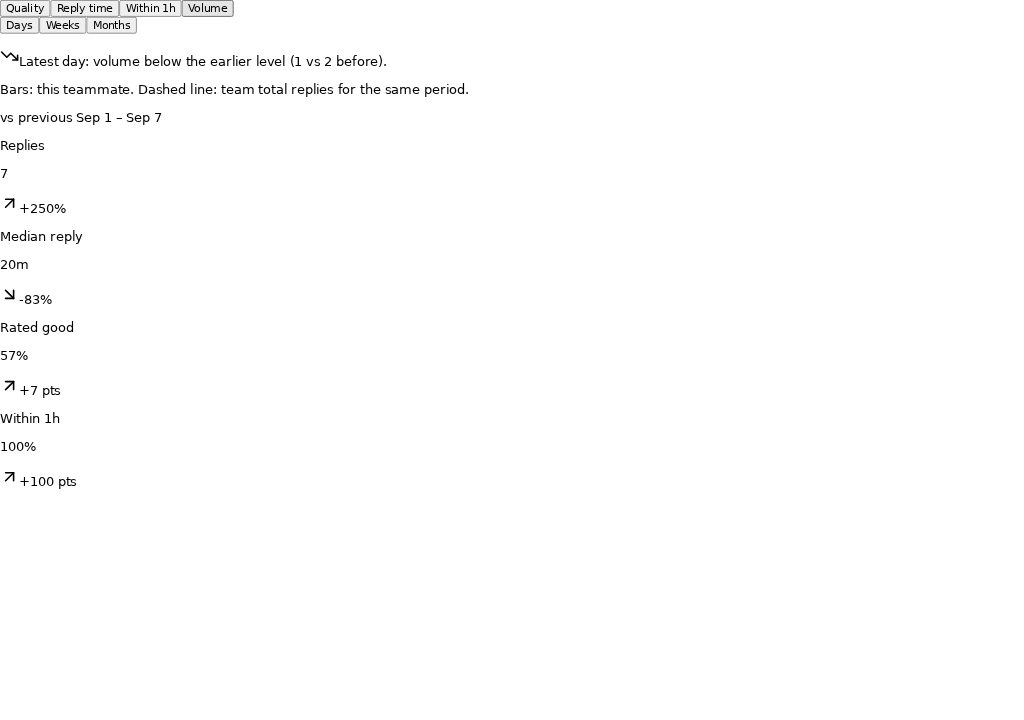
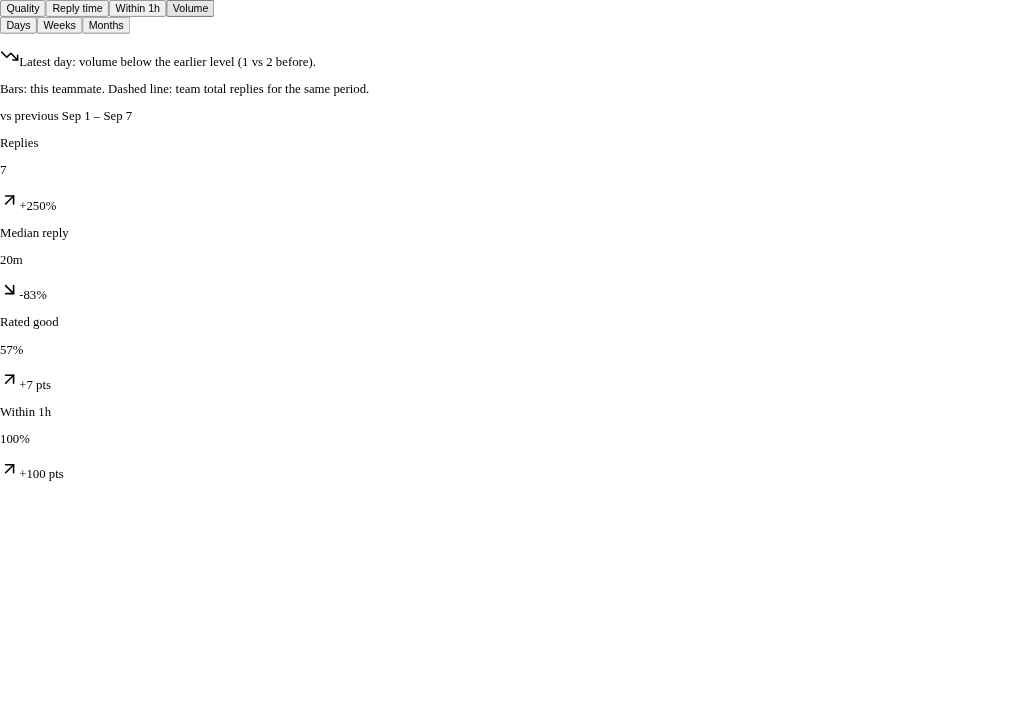
Исправлены проблемы с загрузкой моделей, ошибками сервера и отображением аналитики.

Changed region(s): [[0.0, 0.0, 0.375, 0.0917], [0.0, 0.275, 0.0938, 0.6722], [0.0, 0.1222, 0.4688, 0.2139]]

diff --git a/web/src/test/desk-teammate-trend.browser.test.tsx b/web/src/test/desk-teammate-trend.browser.test.tsx
@@ -1,6 +1,9 @@
 import { page } from "vitest/browser";
 import { render } from "vitest-browser-react";
 
+// Real stylesheet: the chart boxes get their height from Tailwind classes, and
+// recharts draws nothing into a zero-height container.
+import "@/index.css";
 import { DeskTrendSection } from "@/components/gera/DeskTrendSection";
 import { TeammateTrend } from "@/components/gera/TeammateTrend";
 import type { DeskTimelinePoint } from "@/lib/projects";
@@ -61,7 +64,16 @@ test("teammate dynamics: verdict, metric tabs and previous-period comparison fol
   await expect.element(page.getByTestId(`${TID.screenDeskTeammateTrend}-verdict`)).toHaveTextContent(
     "Latest day: volume below the earlier level (1 vs 2 before).",
   );
+  // Regression: the stacked Volume bars must actually render (recharts 2 + react-is 18
+  // silently dropped Bars wrapped in a React 19 fragment — the chart came out empty).
+  await expect.poll(() => drawnBars(TID.screenDeskTeammateTrend), { timeout: 5000 }).toBeGreaterThan(0);
 });
+
+/** Count of bar rectangles recharts drew inside the given test-id block. */
+function drawnBars(testId: string): number {
+  const root = document.querySelector(`[data-testid="${testId}"]`);
+  return root ? root.querySelectorAll(".recharts-bar-rectangle path").length : 0;
+}
 
 test("team trend ranks who moved most for admins and hides the ranking for a single visible teammate", async () => {
   const screen = await render(
@@ -75,6 +87,9 @@ test("team trend ranks who moved most for admins and hides the ranking for a sin
       ]}
     />,
   );
+
+  // Volume is the default team metric; its stacked bars must be drawn, not an empty grid.
+  await expect.poll(() => drawnBars(TID.screenDeskPerformanceTrend), { timeout: 5000 }).toBeGreaterThan(0);
 
   const shifts = page.getByTestId(TID.screenDeskPerformanceShifts);
   await expect.element(shifts).toBeVisible();

diff --git a/web/src/components/gera/DeskTrendSection.tsx b/web/src/components/gera/DeskTrendSection.tsx
@@ -282,12 +282,11 @@ export const DeskTrendSection = memo(function DeskTrendSection({
               }
             />
             <Tooltip cursor={{ fill: "hsl(var(--ember) / 0.08)" }} content={<TrendTooltip metric={metric} />} />
+            {/* No fragment here: recharts (react-is 18) cannot see Bars nested inside a React 19 fragment. */}
+            {metric === "replies" ? <Bar dataKey="good" stackId="v" fill={GOOD} isAnimationActive={false} /> : null}
+            {metric === "replies" ? <Bar dataKey="bad" stackId="v" fill={BAD} isAnimationActive={false} /> : null}
             {metric === "replies" ? (
-              <>
-                <Bar dataKey="good" stackId="v" fill={GOOD} radius={[0, 0, 0, 0]} isAnimationActive={false} />
-                <Bar dataKey="bad" stackId="v" fill={BAD} isAnimationActive={false} />
-                <Bar dataKey="ungraded" stackId="v" fill={MUTED} radius={[4, 4, 0, 0]} isAnimationActive={false} />
-              </>
+              <Bar dataKey="ungraded" stackId="v" fill={MUTED} radius={[4, 4, 0, 0]} isAnimationActive={false} />
             ) : metric === "response" ? (
               <Bar dataKey="medianMinutes" radius={[4, 4, 0, 0]} isAnimationActive={false}>
                 {chartData.map((bucket) => (

diff --git a/web/src/components/gera/TeammateTrend.tsx b/web/src/components/gera/TeammateTrend.tsx
@@ -259,12 +259,11 @@ export const TeammateTrend = memo(function TeammateTrend({
               tickFormatter={(value: number) => formatMetric(value, metric)}
             />
             <Tooltip cursor={{ fill: "hsl(var(--ember) / 0.08)" }} content={<TeammateTooltip metric={metric} />} />
+            {/* No fragment here: recharts (react-is 18) cannot see Bars nested inside a React 19 fragment. */}
+            {metric === "replies" ? <Bar dataKey="good" stackId="v" fill={GOOD} isAnimationActive={false} /> : null}
+            {metric === "replies" ? <Bar dataKey="bad" stackId="v" fill={BAD} isAnimationActive={false} /> : null}
             {metric === "replies" ? (
-              <>
-                <Bar dataKey="good" stackId="v" fill={GOOD} isAnimationActive={false} />
-                <Bar dataKey="bad" stackId="v" fill={BAD} isAnimationActive={false} />
-                <Bar dataKey="ungraded" stackId="v" fill={MUTED} radius={[3, 3, 0, 0]} isAnimationActive={false} />
-              </>
+              <Bar dataKey="ungraded" stackId="v" fill={MUTED} radius={[3, 3, 0, 0]} isAnimationActive={false} />
             ) : (
               <Bar dataKey="own" radius={[3, 3, 0, 0]} isAnimationActive={false}>
                 {rows.map((row) => (

diff --git a/web/src/pages/ScreenDesk.tsx b/web/src/pages/ScreenDesk.tsx
@@ -2209,7 +2209,7 @@ function TeammateCard({
         </div>
       ) : (
         <p className="mt-2 text-[10px] text-muted-foreground">
-          Not graded yet — {isAdmin ? "press Collect & grade above." : "an admin grades on demand."}
+          Not graded yet — {isAdmin ? "press Analyze conversations above." : "an admin grades on demand."}
         </p>
       )}
 

diff --git a/.agents/skills/verification/references/feature-map.md b/.agents/skills/verification/references/feature-map.md
@@ -1106,7 +1106,12 @@ at `/projects/:id/screens/:sid` (`screen-desk`; the open case rides
   (`describeTrend`: streak ≥2 buckets, last-bucket vs earlier mean with noise
   tolerance, stable, or "not enough data"), and a vs-previous-period strip
   (replies, median, rated good, within 1h) from the teammate's own points.
-  Admin-only "Who moved most" ranking (`screen-desk-performance-shifts`,
+  Volume charts (team + teammate) render each stacked `Bar` as a direct child of
+  the chart — recharts 2 ships react-is 18, which cannot see children wrapped in
+  a React 19 fragment, so the Volume tab used to draw an empty grid (fixed
+  2026-09-14; the browser test counts `.recharts-bar-rectangle` and imports
+  `@/index.css` so chart boxes have real height). Admin-only "Who moved most"
+  ranking (`screen-desk-performance-shifts`,
   `rankTeammateShifts`) inside the team trend section lists quality pts / speed %
   / replies % deltas sorted by movement, skipping teammates without replies in
   both windows; hidden when ≤1 teammate is passed (members). Unit:
